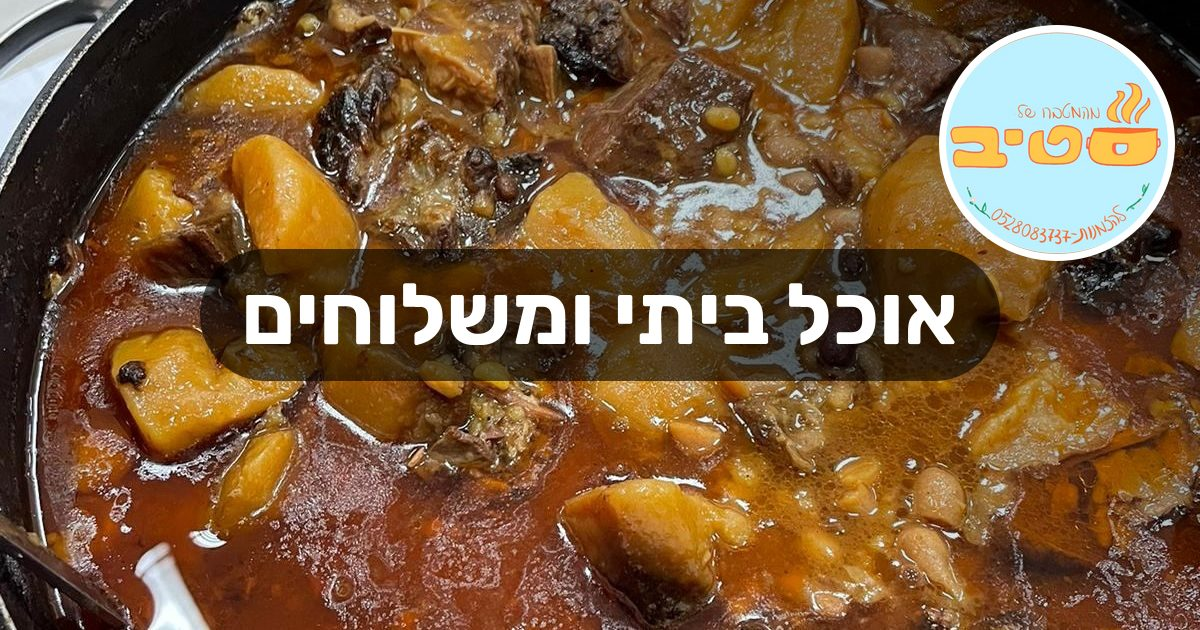
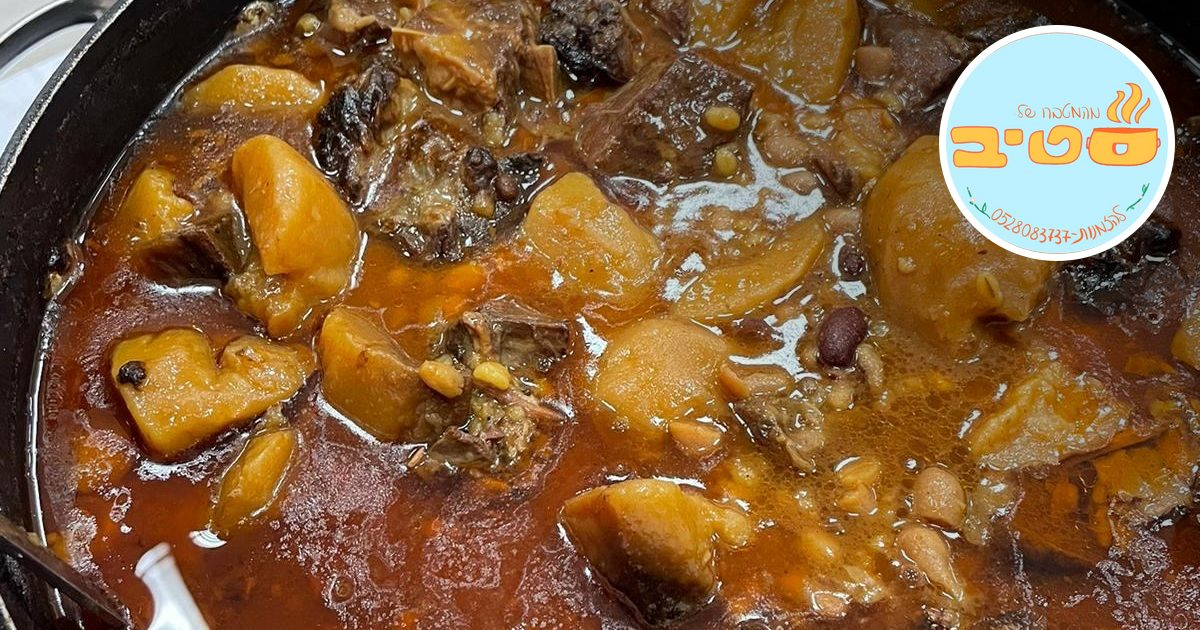
Rename menu caption to אוכל ביתי במשלוחים and drop text from preview image

Changed region(s): [[0.1542, 0.3921, 0.8325, 0.6032]]

diff --git a/src/pages/menu.js b/src/pages/menu.js
@@ -406,11 +406,11 @@ export default function MenuPage() {
   return (
     <Layout>
       <SEO
-        title="ארוחות מוכנות הביתה"
+        title="אוכל ביתי במשלוחים"
         description="תפריט ארוחות מוכנות הביתה מהמטבח של סטיב – אוכל ביתי טרי בקופסאות, מוכן לחימום: מנות עיקריות, מרקים, מנות טבעוניות ותוספות"
         pathname="/menu/"
         image="/images/og-menu.jpg"
-        imageAlt="אוכל ביתי ומשלוחים – מהמטבח של סטיב"
+        imageAlt="אוכל ביתי במשלוחים – מהמטבח של סטיב"
         imageWidth={1200}
         imageHeight={630}
       />
@@ -421,7 +421,7 @@ export default function MenuPage() {
           </HeroTopBar>
           <HeroOverlay />
           <HeroContent>
-            <HeroTitle>ארוחות מוכנות הביתה</HeroTitle>
+            <HeroTitle>אוכל ביתי במשלוחים</HeroTitle>
             <HeroSubtitle>אוכל ביתי טרי מהמטבח של סטיב, בקופסאות מוכנות לחימום</HeroSubtitle>
           </HeroContent>
         </HeroSection>
